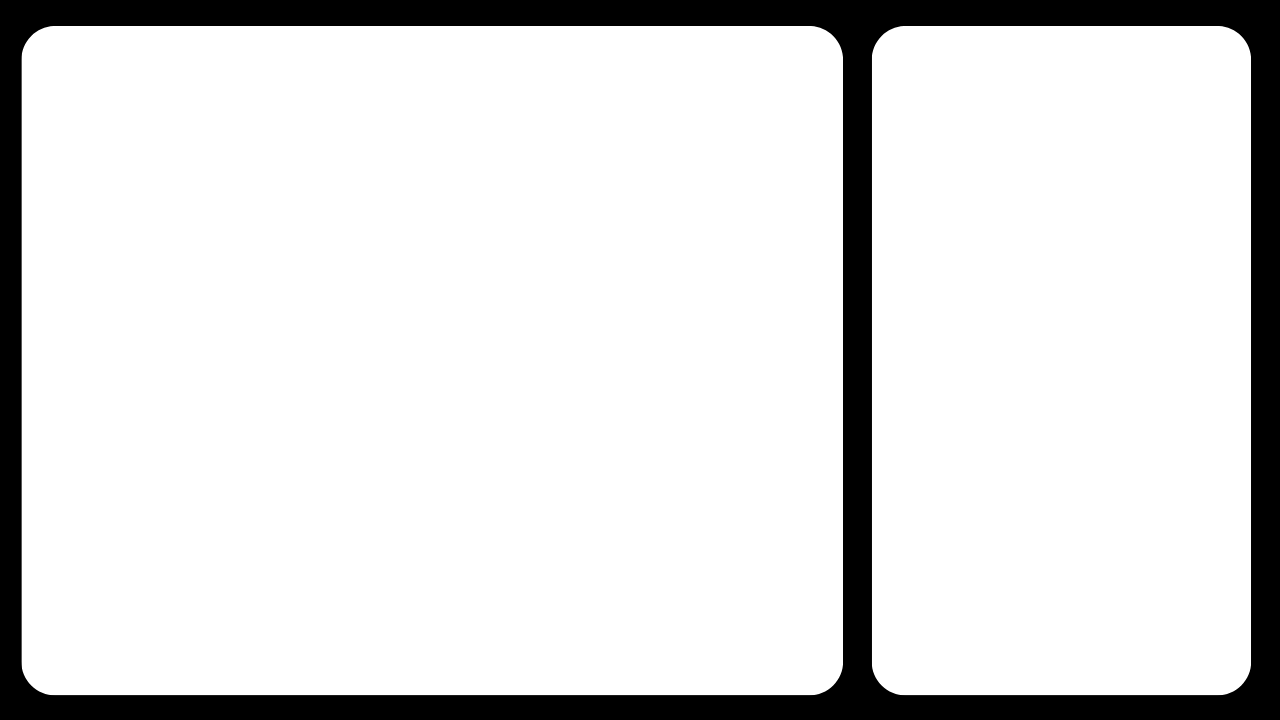
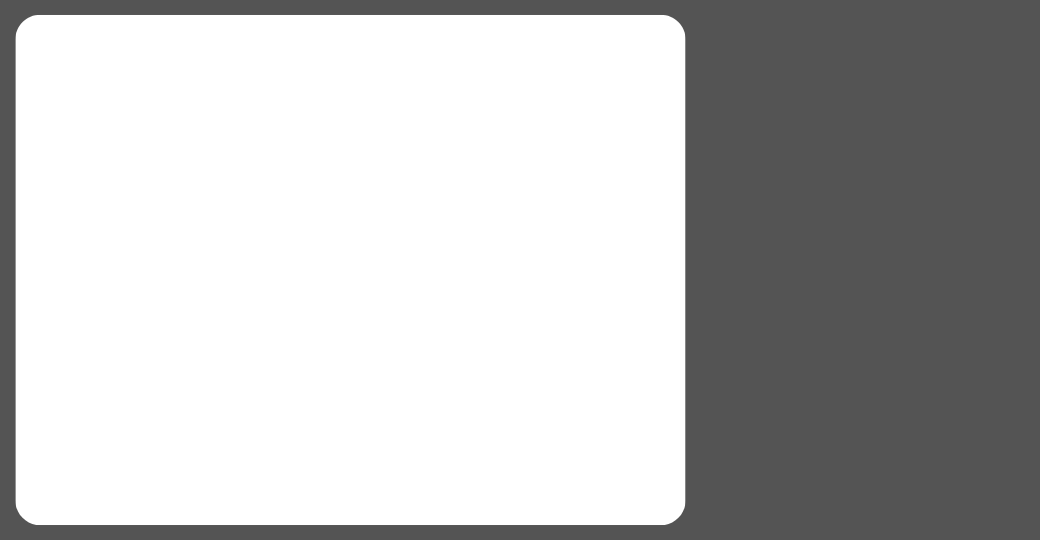
Graphic and some style with images

diff --git a/main.py b/main.py
@@ -4,31 +4,31 @@ import cvzone
 import numpy as np
 import cv2
 import face_recognition
-import firebase_admin
-from firebase_admin import credentials
-from firebase_admin import db
-from firebase_admin import  storage
-
-cred = credentials.Certificate("serviceAccountKey.json")
-firebase_admin.initialize_app(cred, {
-    'databaseURL': "https://realtimefacedetection-42014-default-rtdb.asia-southeast1.firebasedatabase.app/",
-    'storageBucket': "realtimefacedetection-42014.appspot.com"
-})
+# import firebase_admin
+# from firebase_admin import credentials
+# from firebase_admin import db
+# from firebase_admin import  storage
+#
+# cred = credentials.Certificate("serviceAccountKey.json")
+# firebase_admin.initialize_app(cred, {
+#     'databaseURL': "https://realtimefacedetection-42014-default-rtdb.asia-southeast1.firebasedatabase.app/",
+#     'storageBucket': "realtimefacedetection-42014.appspot.com"
+# })
 
 
 
 
 cap = cv2.VideoCapture(0)
 # camp = cv2.flip(1)
-cap.set(cv2.CAP_PROP_FRAME_WIDTH, 1024)
-cap.set(cv2.CAP_PROP_FRAME_HEIGHT, 768)
+cap.set(cv2.CAP_PROP_FRAME_WIDTH, 640)
+cap.set(cv2.CAP_PROP_FRAME_HEIGHT, 480)
 
 # Background Images
 imgBack = cv2.imread('Resoureces/BackGround/frame.jpg')
 
 # All Images with differents modes
 
-folderModePath = 'Resoureces/Modes'
+folderModePath = 'Resoureces/Status'
 modePathList = os.listdir(folderModePath)
 imgModeList = []
 
@@ -52,6 +52,9 @@ encodeListKnown,idList = encodeListKnownWithId
 
 print("Encode File Loaded")
 
+modeType = 0
+counter = 0
+
 while True:
     success, img = cap.read()
 
@@ -61,8 +64,8 @@ while True:
     faceCurFrame = face_recognition.face_locations(smallImg)
     encodefaceCurFrame = face_recognition.face_encodings(smallImg,faceCurFrame)
 
-    imgBack[50:50+480 , 45:45+640] = img
-    imgBack[100:100+200, 900:900+250] = imgModeList[0]
+    imgBack[30:30+480, 30:30+640] = img
+    imgBack[170:170+200, 730:730+250] = imgModeList[1]
 
     for encodeFace, faceLoc in zip(encodefaceCurFrame,faceCurFrame):
         match = face_recognition.compare_faces(encodeListKnown,encodeFace)
@@ -83,9 +86,9 @@ while True:
 
             imgBack = cvzone.cornerRect(imgBack, bbox, rt=0)
 
+
+
         else: print("Not Matched")
-
-
 
 
 
